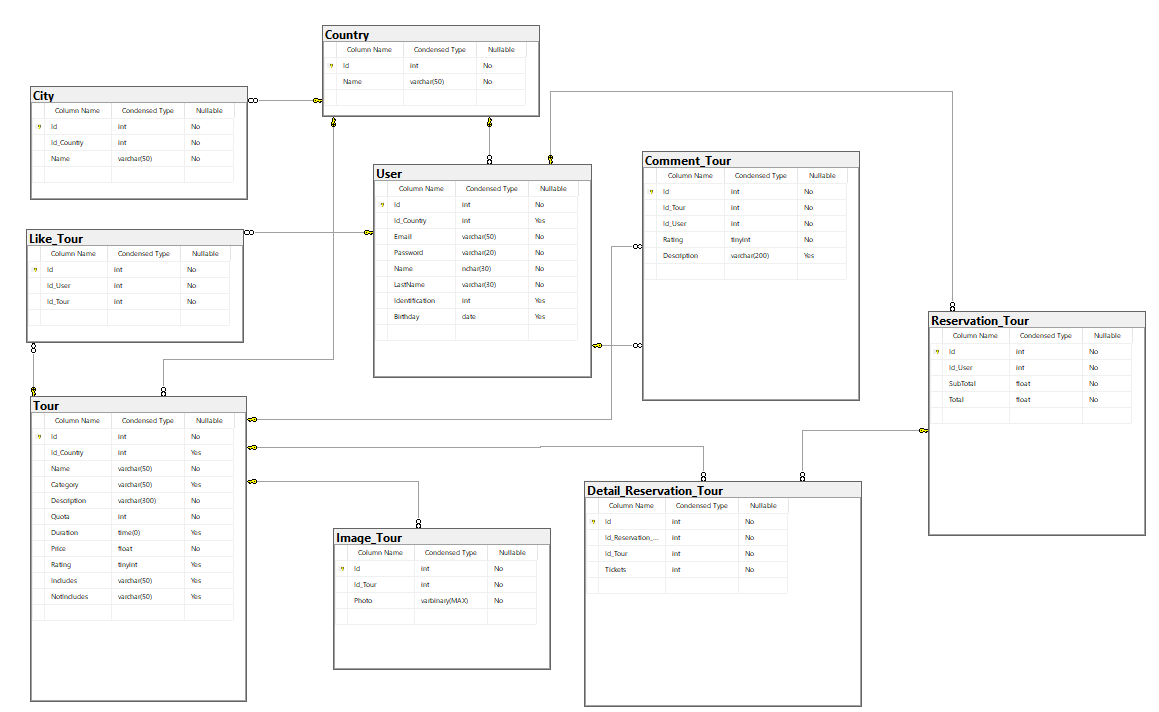
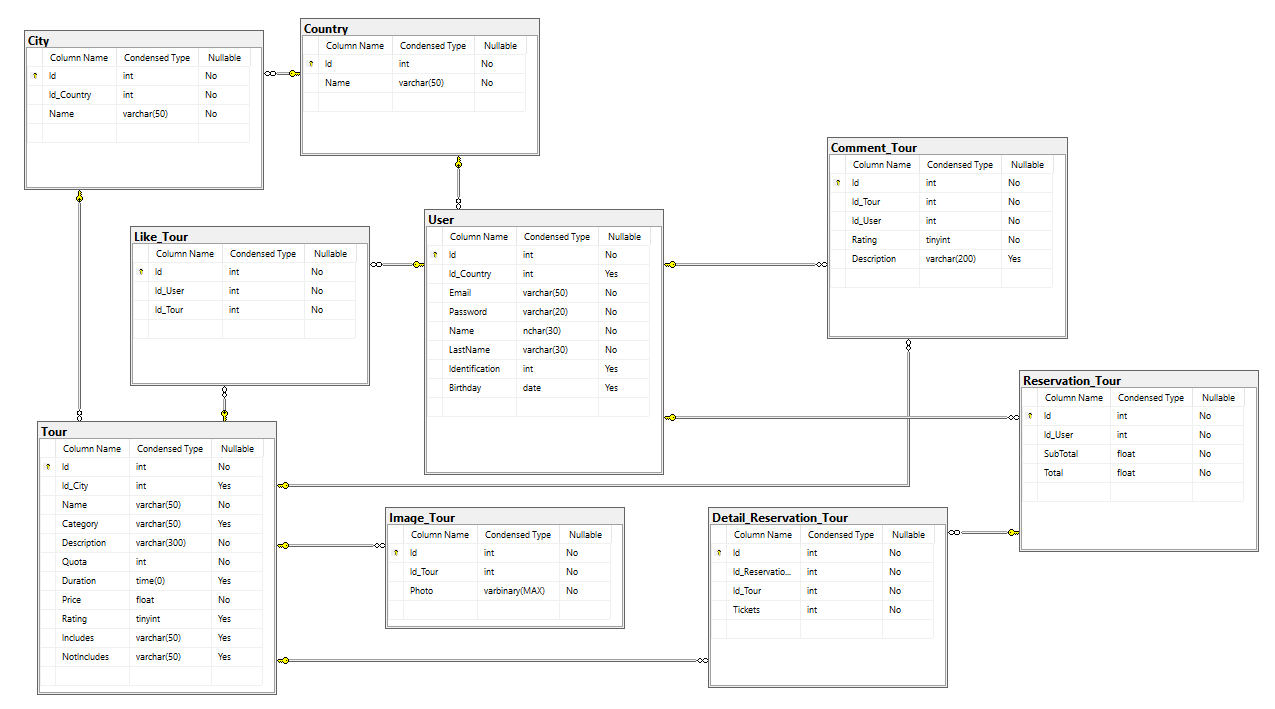
update model

diff --git a/backend/src/main/java/com/getyourtour/model/Tour.java b/backend/src/main/java/com/getyourtour/model/Tour.java
@@ -10,7 +10,7 @@ import java.sql.Time;
 
 public class Tour {
     private Integer id;
-    private Country country;
+    private City city;
     private String name;
     private String category;
     private String description;
@@ -23,7 +23,7 @@ public class Tour {
 
     public Tour() {
         this.id = 0;
-        this.country = null;
+        this.city = null;
         this.name = "";
         this.category  = "";
         this.description = "";
@@ -35,9 +35,9 @@ public class Tour {
         this.notIncludes = "";
     }
 
-    public Tour(Integer id, Country country, String name, String category, String description, Integer quota, Time duration, float price, Short rating, String includes, String notIncludes) {
+    public Tour(Integer id, City city, String name, String category, String description, Integer quota, Time duration, float price, Short rating, String includes, String notIncludes) {
         this.id = id;
-        this.country = country;
+        this.city = city;
         this.name = name;
         this.category = category;
         this.description = description;
@@ -57,12 +57,12 @@ public class Tour {
         this.id = id;
     }
 
-    public Country getCountry() {
-        return country;
+    public City getCity() {
+        return city;
     }
 
-    public void setCountry(Country country) {
-        this.country = country;
+    public void setCity(City city) {
+        this.city = city;
     }
 
     public String getName() {
